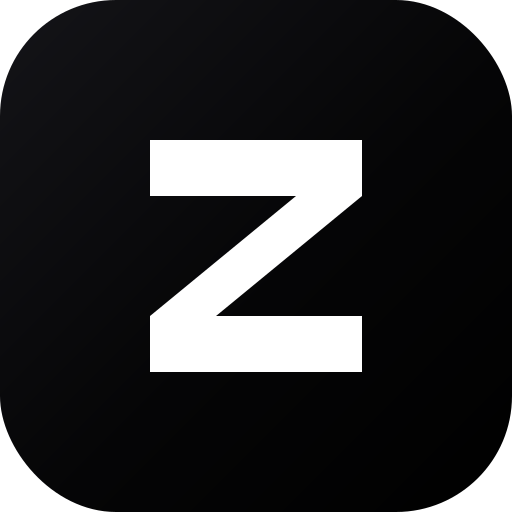
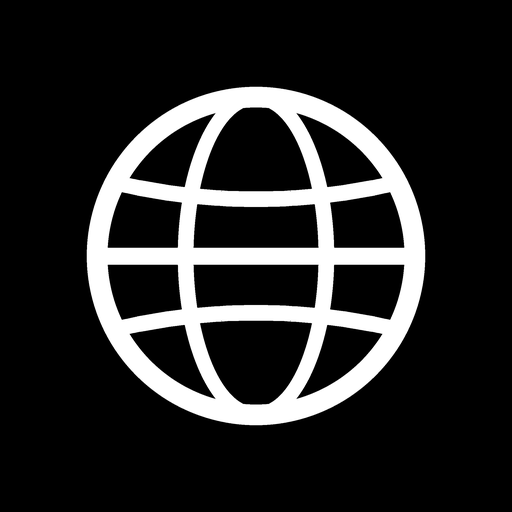
1.0.2: 全新地球图标

diff --git a/README.md b/README.md
@@ -12,7 +12,7 @@
 <p align="center">
   <a href="https://github.com/lmxdg/ZormeBrowser/releases/latest"><img alt="Release" src="https://img.shields.io/github/v/release/lmxdg/ZormeBrowser?label=%E6%9C%80%E6%96%B0%E7%89%88&color=black"/></a>
   <img alt="Platform" src="https://img.shields.io/badge/%E5%B9%B3%E5%8F%B0-Android%205.0%2B-black"/>
-  <img alt="Size" src="https://img.shields.io/badge/APK-%E7%BA%A62.5MB-black"/>
+  <img alt="Size" src="https://img.shields.io/badge/APK-%E7%BA%A62.6MB-black"/>
   <img alt="License" src="https://img.shields.io/badge/%E8%AE%B8%E5%8F%AF%E8%AF%81-MIT-black"/>
 </p>
 
@@ -64,6 +64,19 @@
 - 内置更新检测，对比 GitHub Releases 最新 tag 与本地版本号（语义化比较）
 - 发现新版本时通过内置弹窗展示更新说明，支持直接下载 APK 或打开发布页
 
+## 更新日志
+
+**v1.0.2**
+- 全新应用图标：白色线框地球（黑底），方形 / 圆形双版本
+
+**v1.0.1**
+- 新增网站 SSL 证书信息查看（证书链、指纹、SAN、有效期）
+- 标签页管理显示网站实时预览截图
+- 修复 `intent://` 链接误报"无法打开"打断网页跳转的问题
+
+**v1.0.0**
+- 首个正式版：Via 风格浏览体验、内置自绘弹窗体系、自定义 UA、广告拦截、夜间模式、应用内检测更新
+
 ## 界面预览
 
 | 主页 | 菜单 | 标签页 |
@@ -86,6 +99,8 @@ cd ZormeBrowser
 产物位于 `app/build/outputs/apk/release/app-release.apk`。
 
 仓库内的 `zorme-release.jks` 是测试签名（密码 `zorme2024`），**仅供开发调试使用**，正式发布请替换为你自己的密钥。
+
+> Gradle 发行版下载源默认配置为腾讯云镜像（`mirrors.cloud.tencent.com`），国内网络更稳定；如需官方源，把 `gradle/wrapper/gradle-wrapper.properties` 中的 `distributionUrl` 改回 `https://services.gradle.org/distributions/gradle-8.7-bin.zip` 即可。
 
 ## 项目结构
 
